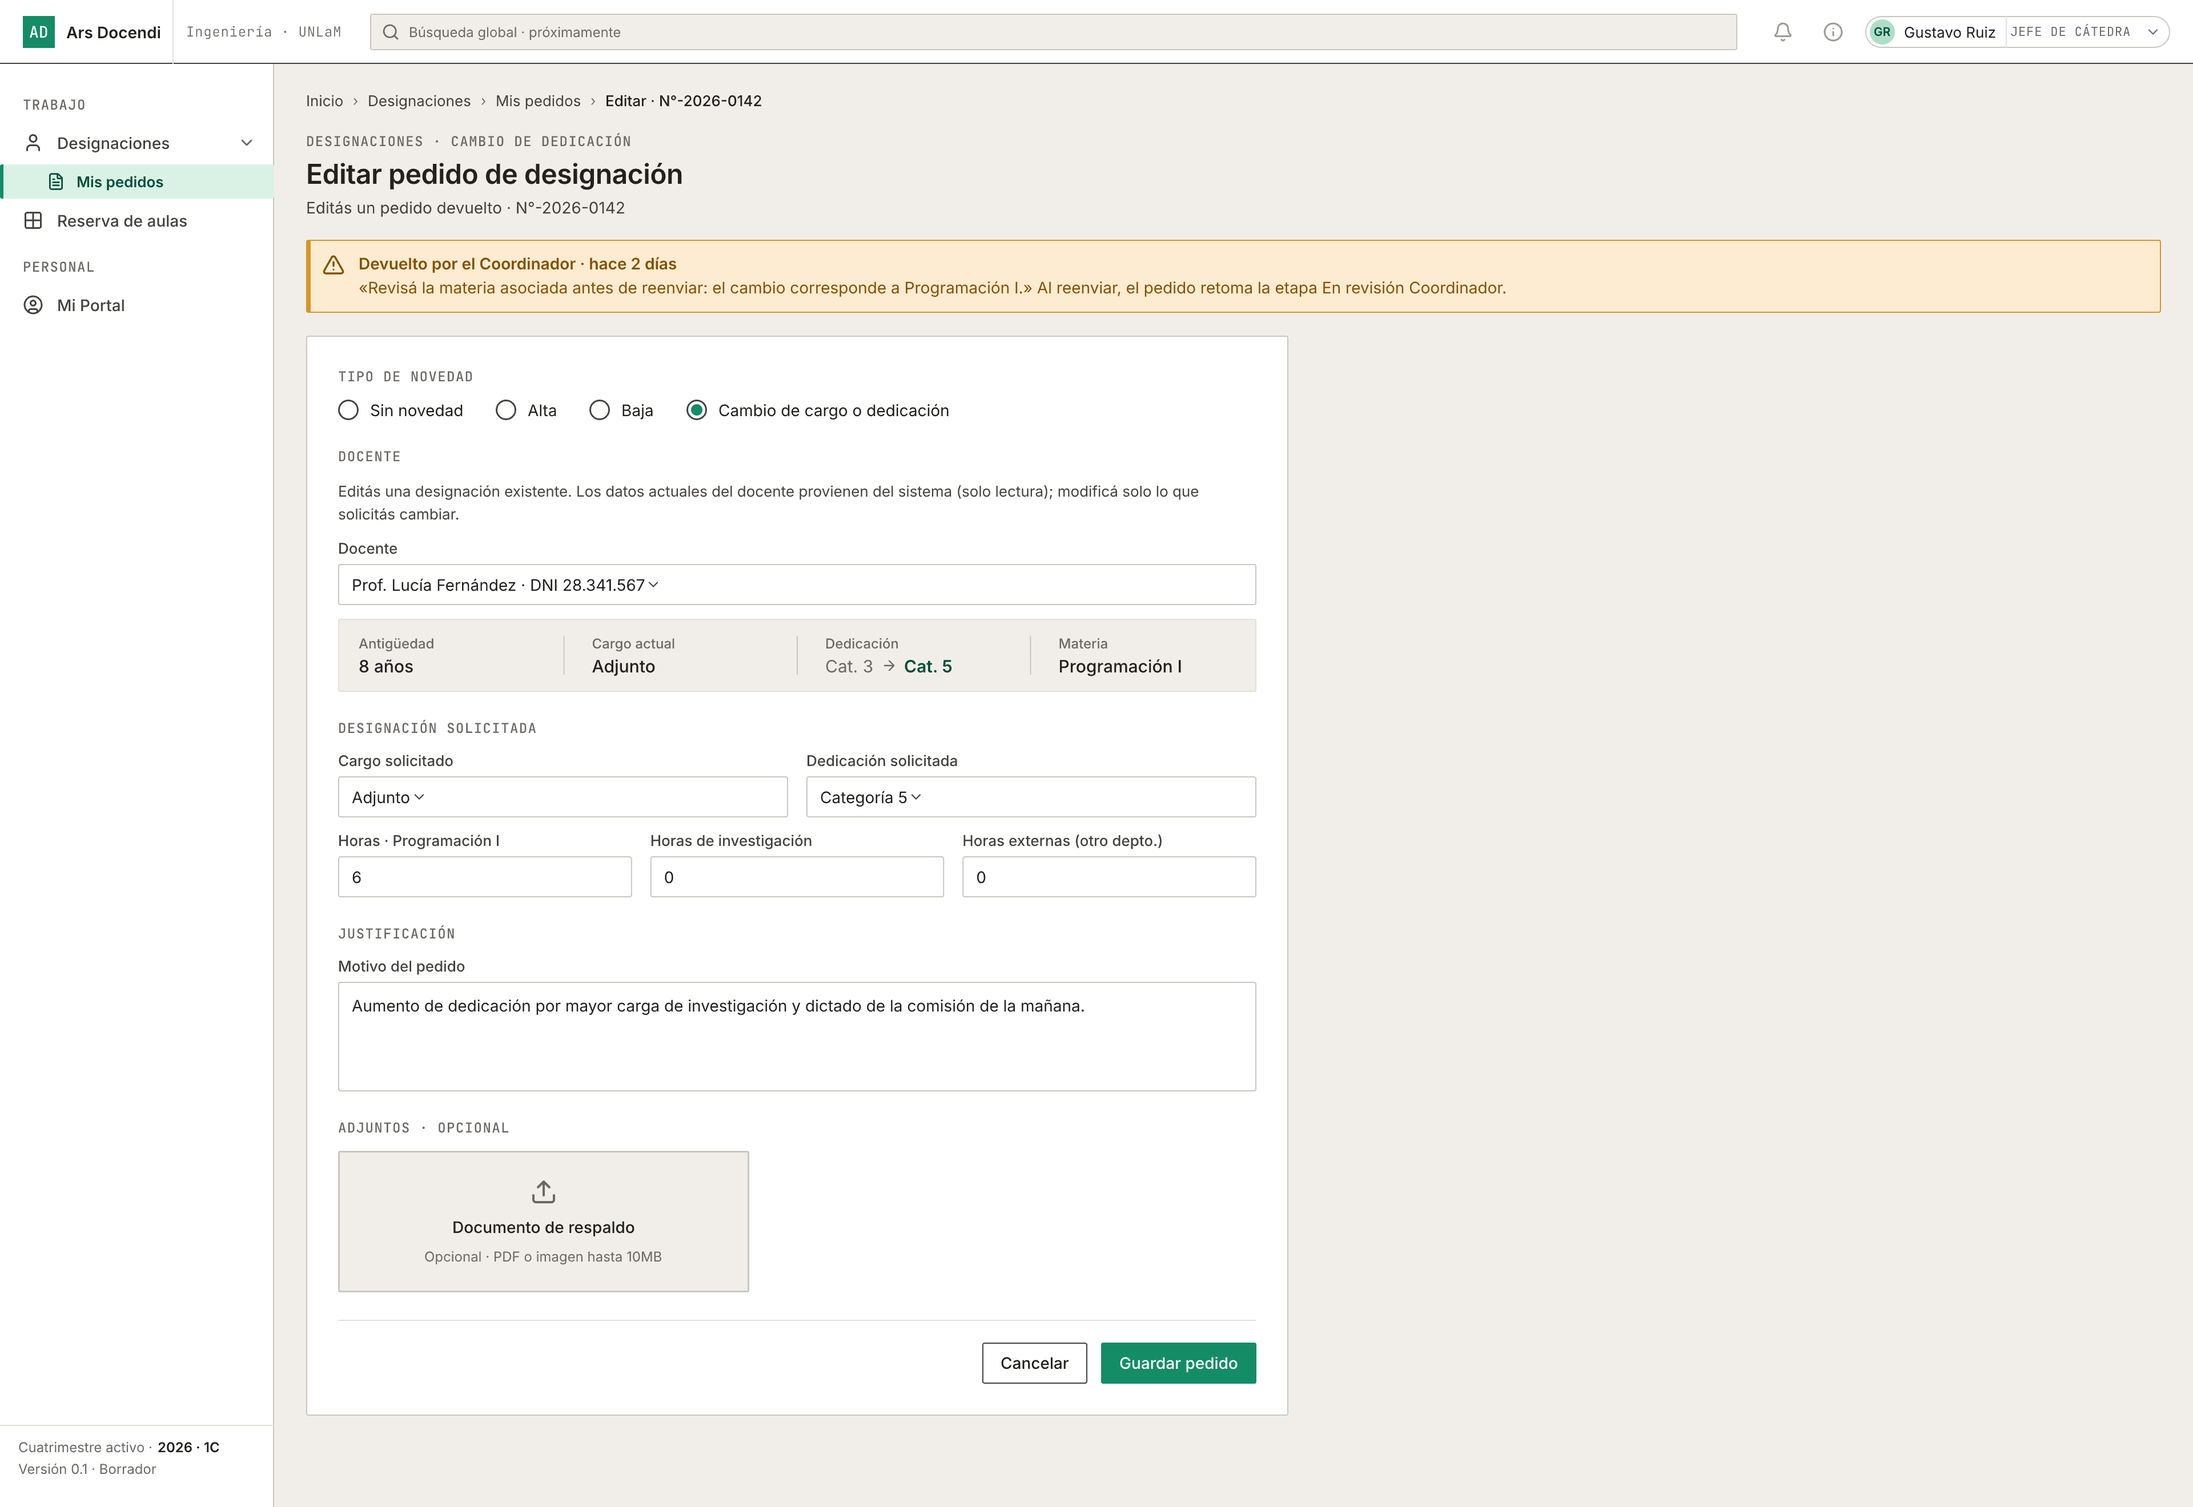
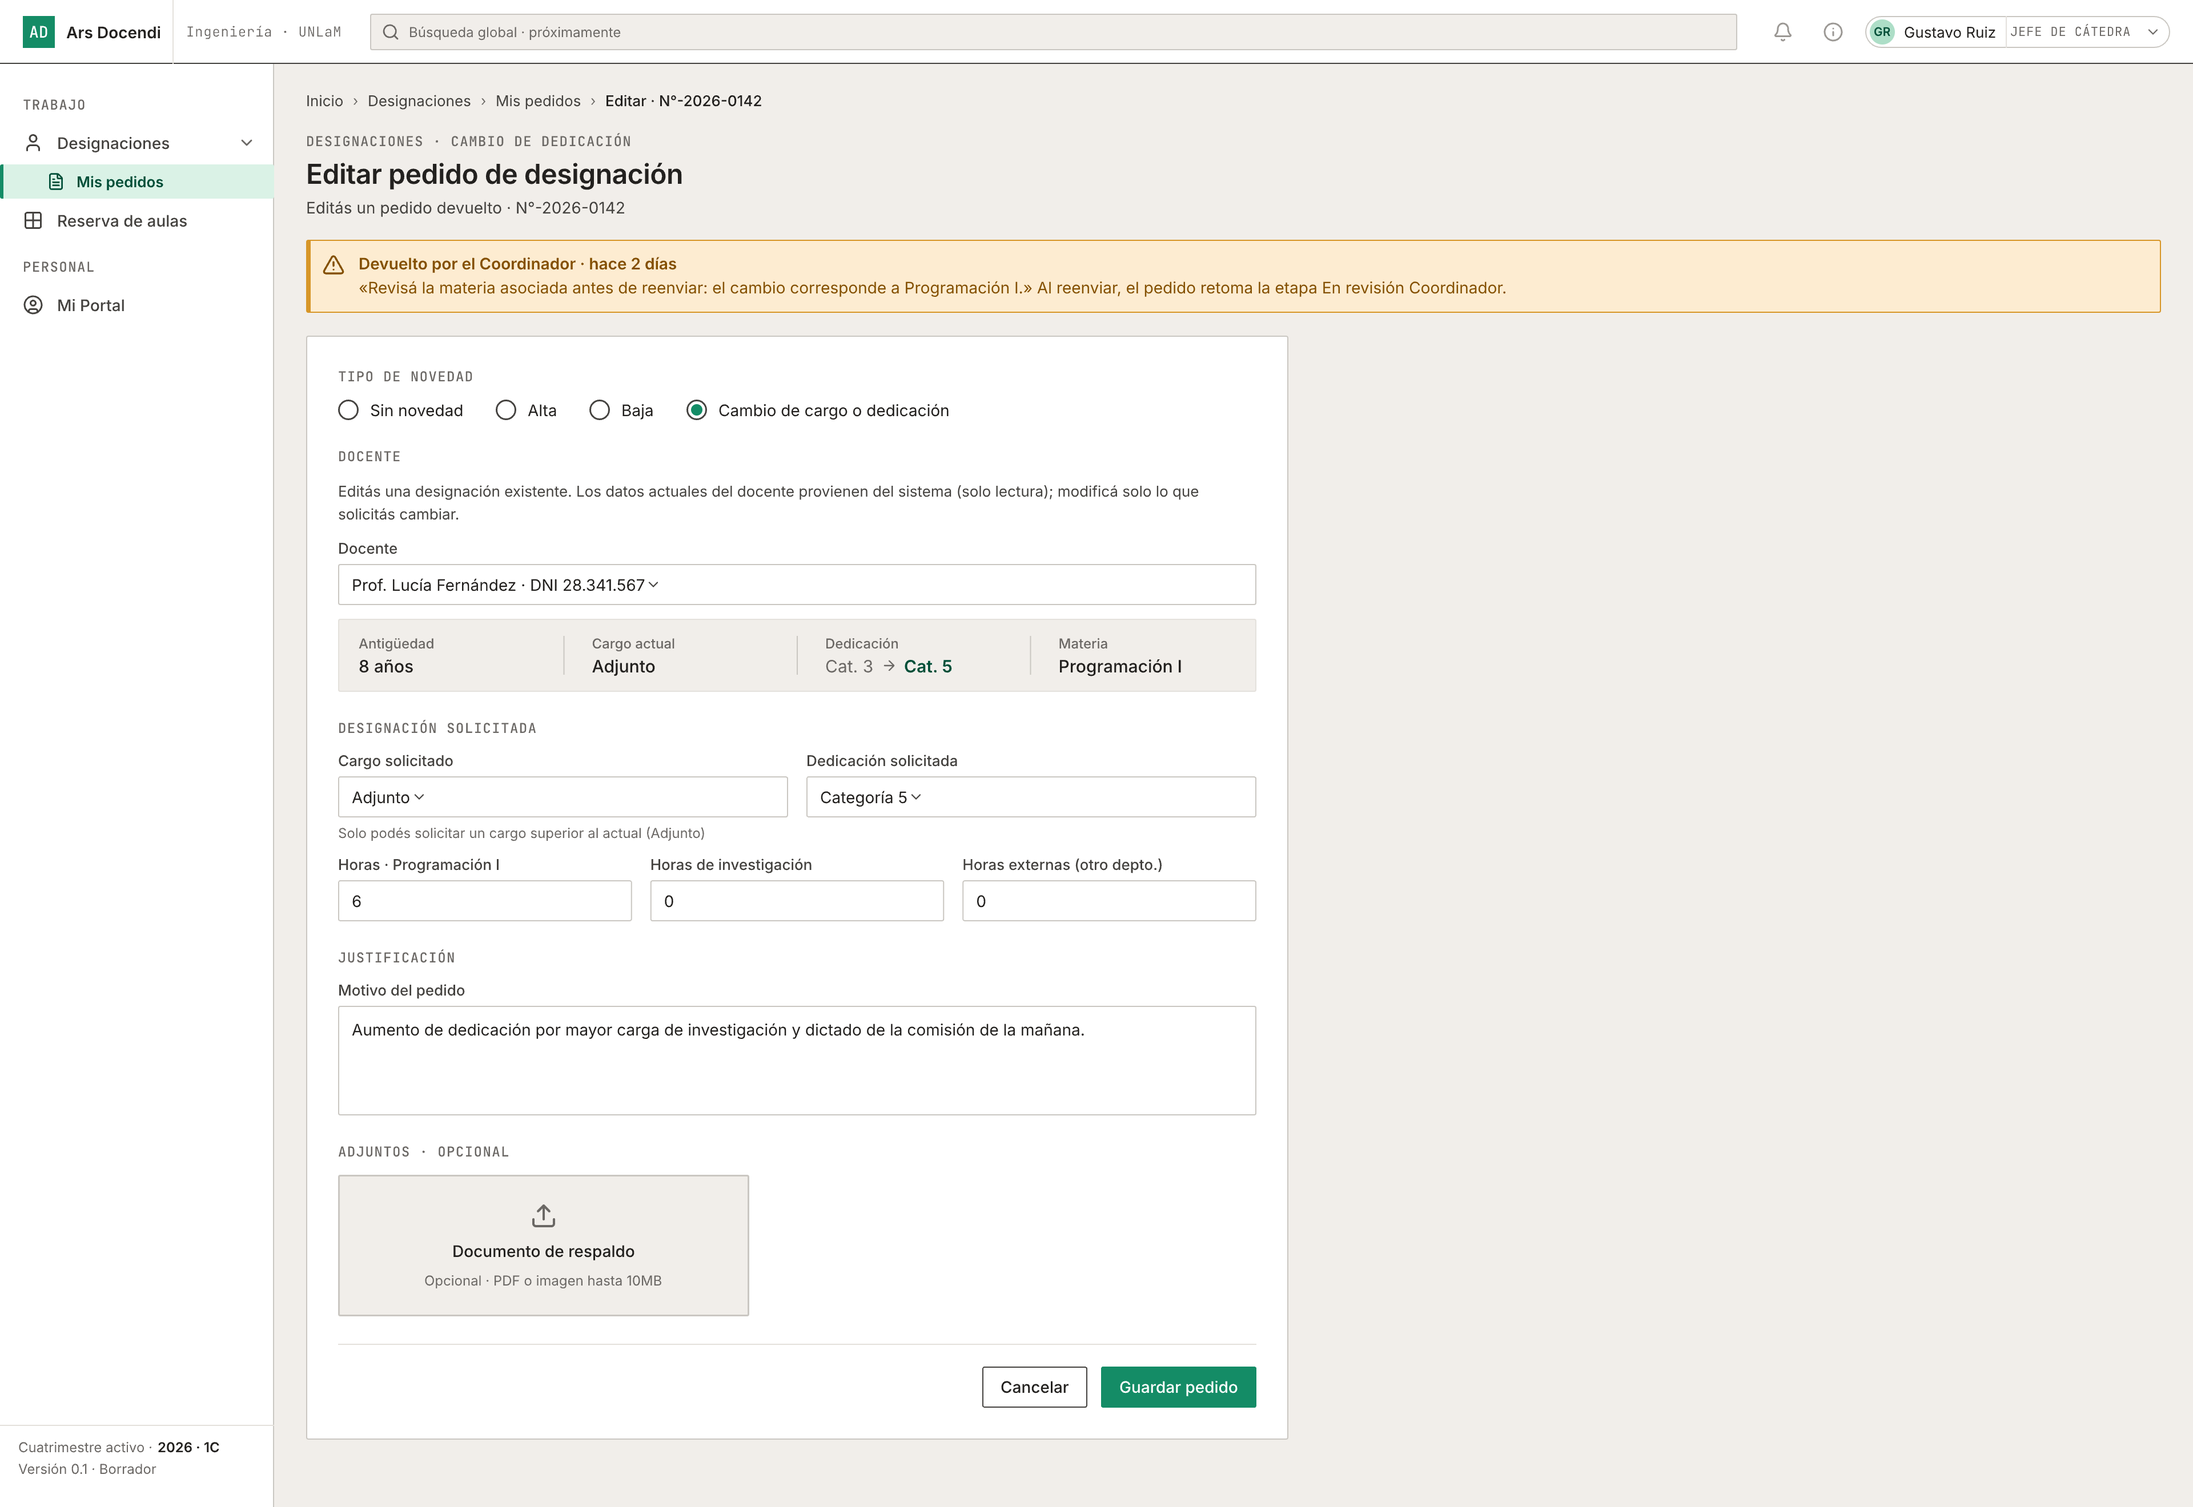
docs: mockear Mis Pedidos, Baja y restricción de cargo en Cambio
Agrega en screens.pen: alerta de período abierto + hint de doble-click
(Mis Pedidos, tema G), tipificación de la baja (Baja, tema D) y hint de
restricción de jerarquía de cargo (Cambio, tema C). Actualiza el
checklist trazable y la guía de handoff del doc de exploración.

diff --git a/docs/product/designs/rediseno-designaciones-exploracion.md b/docs/product/designs/rediseno-designaciones-exploracion.md
@@ -30,8 +30,12 @@ Cada bullet es tal como lo trajo el profesor/cliente, mapeado 1:1 a su estado re
 
 **Pantalla Mis Pedidos — Inicio**
 
-- ⏳ Alerta de tiempo de períodos activos → tema G, no mockeado, sin BR redactada todavía.
-- ⏳ Doble click para abrir además de los 3 puntitos → micro-UX, no mockeado.
+- ✅ Alerta de tiempo de períodos activos → mockeado en `m3xg` (`InlineAlert/Info` "Período abierto ·
+  2026 · 1C — cierra el 20/03/2026 · quedan 5 días"). Sigue sin BR redactada (falta definir con
+  cuántos días de anticipación se muestra, y si cambia de color/urgencia cerca del cierre).
+- ✅ Doble click para abrir además de los 3 puntitos → mockeado como hint de texto sobre la tabla en
+  `m3xg` ("Tip: doble click en una fila también abre el pedido"). Es solo la intención visual — el
+  gesto de doble-click no es representable en un mockup estático; queda para la implementación real.
 
 **Cargando un pedido — Todo tipo**
 
@@ -48,14 +52,16 @@ Cada bullet es tal como lo trajo el profesor/cliente, mapeado 1:1 a su estado re
 
 **Baja**
 
-- 📝 Tipificado de la baja → **decidido**: enum cerrado Renuncia/Jubilación/Otro. **No mockeado**
-  (el frame `JOHDw` "Pedido (Baja)" no se tocó en esta sesión).
+- ✅ Tipificado de la baja → **decidido y mockeado**: Select "Tipo de baja" agregado en `JOHDw`
+  ("Pedido (Baja)"), antes de "Motivo de la baja", ejemplo "Renuncia" (enum cerrado
+  Renuncia/Jubilación/Otro).
 
 **Cambio**
 
-- 📝 No se puede bajar el cargo, solo superiores → **decidido**: BR + jerarquía de 7 cargos. **No
-  mockeado** (no hay tratamiento visual de la restricción en `tZANr` — la validación es de dominio,
-  se podría reflejar con un hint o deshabilitando opciones inferiores del Select).
+- ✅ No se puede bajar el cargo, solo superiores → **decidido y mockeado**: hint de texto agregado
+  bajo "Cargo solicitado" en `tZANr` ("Solo podés solicitar un cargo superior al actual (Adjunto)").
+  Es solo la señal visual — la restricción real la impone el dominio (BR + jerarquía de 7 cargos), acá
+  solo se comunica al usuario.
 - ✅ Horas de materia / investigación / externas → mockeado en `tZANr` (y de paso se completó
   "Dedicación solicitada", que faltaba desde antes).
 
@@ -90,9 +96,9 @@ Cada bullet es tal como lo trajo el profesor/cliente, mapeado 1:1 a su estado re
   y `ebl4U` (tabla) siguen como estaban: falta unificarlos en un solo diseño de grilla y limpiar/archivar
   las variantes de Kanban que quedan obsoletas.
 
-**Resumen:** de todo el lote, **solo el form de pedido (Alta + Cambio, temas A+B) está mockeado**.
-Todo lo demás (temas C, D-Baja, E, F, G, y la pantalla Datos Docente) tiene la decisión tomada pero
-falta dibujarlo en Pencil.
+**Resumen:** mockeados hasta ahora — form de pedido completo (Alta + Baja + Cambio, temas A+B+C+D) y
+Mis Pedidos (tema G + micro-UX). **Falta:** Revisión (tema E, el más grande), Historial (tema F) y la
+pantalla Datos Docente (parte de tema A).
 
 ## Decisiones estructurales (cerradas)
 
@@ -192,18 +198,38 @@ SeccionDesignacionSolicitada.tsx` + `DatosActualesPanel.tsx`): ahí **Cargo y De
   la aclaración de semántica del tema D: en vez de reinterpretar el toggle, se lo reemplaza
   directamente por el campo de horas.
 
+### Mockup en Pencil — ronda 2: Mis Pedidos, Baja, Cambio (2026-07-06)
+
+Capturas actualizadas en `exports/rediseno-designaciones-ui/`:
+
+- **`m3xg`** ("Designaciones - Mis pedidos") — [mis-pedidos.png](./exports/rediseno-designaciones-ui/mis-pedidos.png):
+  tema G — `InlineAlert/Info` **"Período abierto · 2026 · 1C — cierra el 20/03/2026 · quedan 5 días"**
+  agregada entre el header y la tabla; y el hint de texto **"Tip: doble click en una fila también abre
+  el pedido"** sobre la tabla (micro-UX). El gesto de doble-click en sí no es representable en un
+  mockup estático — queda como intención para la implementación.
+- **`JOHDw`** ("Designaciones - Pedido (Baja)") — [pedido-baja.png](./exports/rediseno-designaciones-ui/pedido-baja.png):
+  tema D — Select **"Tipo de baja"** agregado antes de "Motivo de la baja", ejemplo "Renuncia".
+- **`tZANr`** (Cambio) — [pedido-editar-cambio.png](./exports/rediseno-designaciones-ui/pedido-editar-cambio.png):
+  tema C — hint de texto **"Solo podés solicitar un cargo superior al actual (Adjunto)"** bajo "Cargo
+  solicitado". Es solo la señal visual; la restricción real la impone el dominio (BR + jerarquía).
+- Los tres verificados sin problemas de layout (`snapshot_layout`).
+
+**Con esto, el checklist de "Estado de los comentarios del profesor" queda así:** mockeados Mis
+Pedidos (G), Baja (D) y Cambio (A+B+C) completos. Faltan: Revisión (E, el bloque más grande),
+Historial (F, pantalla nueva) y Datos Docente (resto de A).
+
 ## Mapa de temas
 
 | #     | Tema                                                                                                                                                       | Pantallas                                      | Estado                                                                                             | Agrupación (change)          |
 | ----- | ---------------------------------------------------------------------------------------------------------------------------------------------------------- | ---------------------------------------------- | -------------------------------------------------------------------------------------------------- | ---------------------------- |
 | **A** | **Modelo de horas** (materia / investigación / externas; modificar horas docente)                                                                          | Form (todo tipo, Alta, Cambio) + Datos Docente | ✅ Mockeado en Pencil (Alta + Cambio). Falta Datos Docente y "modificar horas docente"             | Propio (el más profundo)     |
 | **B** | **Múltiples materias en el pedido** (D3)                                                                                                                   | Form Alta/Cambio                               | ✅ Mockeado en Pencil (Alta)                                                                       | Junto con A                  |
-| **C** | **Jerarquía de cargos** (cambio solo a cargo superior; quitar prioritario si tenés cargo mayor)                                                            | Form Cambio + Revisión                         | Orden en `CARGOS_DOCENTES`; se define ladder de **7** (suma "Ayudante alumno") + se hace explícito | BRs nuevas + orden de cargos |
-| **D** | **Tipificaciones** (tipo de baja: Renuncia/Jubilación/Otro; check "depto externo" = solo menciona que trabaja en otro depto)                               | Form Baja + toggle depto                       | Enum de baja nuevo (cerrado); el toggle se deja como está por ahora                                | Con el form                  |
-| **E** | **Rediseño Revisión** (tipo de cambio visible; estado cerca del título; simplificar info; botón Volver; **solo grilla, sin switcher**; quitar prioritario) | Revisión (grilla) + Detalle                    | Se **elimina Kanban** → solo grilla; + regla nueva de quitar prioritario                           | UX-only, propio              |
-| **F** | **Historial de pedidos** (pantalla nueva)                                                                                                                  | Nueva                                          | Nuevo (distinto del AuditLog por-pedido ya existente)                                              | Propio                       |
-| **G** | **Período abierto** (alerta de tiempo en Mis Pedidos; restricción de carga fuera de período)                                                               | Mis Pedidos (inicio)                           | Conecta con `gestion-periodos`; la restricción es regla nueva                                      | Con Mis Pedidos              |
-| —     | **Doble click para abrir** (además del kebab ⋮)                                                                                                            | Mis Pedidos                                    | Micro-UX                                                                                           | Trivial, con E o G           |
+| **C** | **Jerarquía de cargos** (cambio solo a cargo superior; quitar prioritario si tenés cargo mayor)                                                            | Form Cambio + Revisión                         | ✅ Hint mockeado en Cambio (`tZANr`). Falta la parte de Revisión (quitar prioritario)              | BRs nuevas + orden de cargos |
+| **D** | **Tipificaciones** (tipo de baja: Renuncia/Jubilación/Otro; check "depto externo" = solo menciona que trabaja en otro depto)                               | Form Baja + toggle depto                       | ✅ Mockeado en Pencil (Baja, `JOHDw`). Check depto externo resuelto distinto (toggle eliminado)    | Con el form                  |
+| **E** | **Rediseño Revisión** (tipo de cambio visible; estado cerca del título; simplificar info; botón Volver; **solo grilla, sin switcher**; quitar prioritario) | Revisión (grilla) + Detalle                    | Se **elimina Kanban** → solo grilla; + regla nueva de quitar prioritario. **No mockeado todavía**  | UX-only, propio              |
+| **F** | **Historial de pedidos** (pantalla nueva)                                                                                                                  | Nueva                                          | Nuevo (distinto del AuditLog por-pedido ya existente). **No mockeado todavía**                     | Propio                       |
+| **G** | **Período abierto** (alerta de tiempo en Mis Pedidos; restricción de carga fuera de período)                                                               | Mis Pedidos (inicio)                           | ✅ Alerta mockeada en `m3xg`. Falta la BR de restricción de carga (conecta con `gestion-periodos`) | Con Mis Pedidos              |
+| —     | **Doble click para abrir** (además del kebab ⋮)                                                                                                            | Mis Pedidos                                    | ✅ Mockeado como hint de texto en `m3xg`                                                           | Trivial, con E o G           |
 
 ### Detalle por pantalla (crudo del cliente, mapeado a tema)
 
@@ -302,33 +328,28 @@ Primera** (convención UNLaM). Un cargo es "superior" si tiene índice mayor en 
 
 Para quien continúe el mockup en `docs/product/designs/screens.pen`:
 
-**Frames ya tocados (temas A+B, terminados):**
+**Frames ya tocados (terminados):**
 
-- `n1zz2M` — "Designaciones - Pedido (Alta)"
-- `tZANr` — "Designaciones - Pedido (Editar · Cambio)"
+- `n1zz2M` — "Designaciones - Pedido (Alta)" (temas A+B)
+- `tZANr` — "Designaciones - Pedido (Editar · Cambio)" (temas A+B+C)
+- `JOHDw` — "Designaciones - Pedido (Baja)" (tema D)
+- `m3xg` — "Designaciones - Mis pedidos" (tema G + micro-UX doble click)
 
 **Frames a tocar para lo que sigue (en orden sugerido, de menor a mayor esfuerzo):**
 
-1. **Tema G + micro-UX** en `m3xg` ("Designaciones - Mis pedidos"): agregar alerta de tiempo de
-   período activo + soporte visual de doble-click (puede ser solo una nota, el doble-click no se ve
-   en un mockup estático).
-2. **Tema D (Baja)** en `JOHDw` ("Pedido (Baja)"): agregar el Select de tipificación
-   (Renuncia/Jubilación/Otro) — mismo patrón de campo que "Cargo solicitado" en los otros frames.
-3. **Tema C** en `tZANr` (Cambio): reflejar visualmente "no bajar de cargo" (ej. opciones inferiores
-   del Select deshabilitadas/grisadas, o un hint bajo el campo).
-4. **Tema E (Revisión → solo grilla)**: el más grande. Frames existentes a **reconciliar**:
-   `q6OrQB` (Tablero de revisión, vigente), `kWSjh` / `Z0S9T` (2 variantes de tablero descartadas en
-   su momento, opciones C/D) y `ebl4U` (Tabla/grilla, vigente). Como se elimina el Kanban, `ebl4U` es
-   el punto de partida; probablemente convenga **copiar `ebl4U` a un frame nuevo** (no editar el
-   original hasta confirmar) e iterar ahí: sacar tipo de cambio más visible, estado cerca del título,
-   simplificar info, botón Volver, y la acción de "quitar prioritario" (tema C/P1) en el detalle
-   (`hcCfk`, "Revisión de novedad"). Al terminar, marcar `q6OrQB`/`kWSjh`/`Z0S9T` como obsoletos (no
-   borrar todavía — dejarlos de referencia hasta el PR).
-5. **Tema F (Historial)**: no hay frame de partida. Usar `FindEmptySpace` (ver ejemplo en la sección
+1. **Tema E (Revisión → solo grilla)**: el más grande, el único que queda de fondo. Frames existentes
+   a **reconciliar**: `q6OrQB` (Tablero de revisión, vigente), `kWSjh` / `Z0S9T` (2 variantes de
+   tablero descartadas en su momento, opciones C/D) y `ebl4U` (Tabla/grilla, vigente). Como se elimina
+   el Kanban, `ebl4U` es el punto de partida; probablemente convenga **copiar `ebl4U` a un frame
+   nuevo** (no editar el original hasta confirmar) e iterar ahí: sacar tipo de cambio más visible,
+   estado cerca del título, simplificar info, botón Volver, y la acción de "quitar prioritario" (tema
+   C/P1) en el detalle (`hcCfk`, "Revisión de novedad"). Al terminar, marcar
+   `q6OrQB`/`kWSjh`/`Z0S9T` como obsoletos (no borrar todavía — dejarlos de referencia hasta el PR).
+2. **Tema F (Historial)**: no hay frame de partida. Usar `FindEmptySpace` (ver ejemplo en la sección
    "batch_design API" del propio Pencil) anclado a algún frame de Designaciones existente, y armar
    la pantalla desde cero reusando los componentes del design system (`Table`/`DataList`,
    `Breadcrumbs`, `PageHeader` pattern) — mismo patrón que ya usan las demás pantallas del módulo.
-6. **Datos Docente**: no existe frame en `screens.pen` todavía para esta pantalla en absoluto — hay
+3. **Datos Docente**: no existe frame en `screens.pen` todavía para esta pantalla en absoluto — hay
    que crearla si se va a mockear "modificar horas docente" (A) y "cargo/dedicación únicos" (D1) ahí.
 
 **Tips de flujo aprendidos en esta sesión:**
